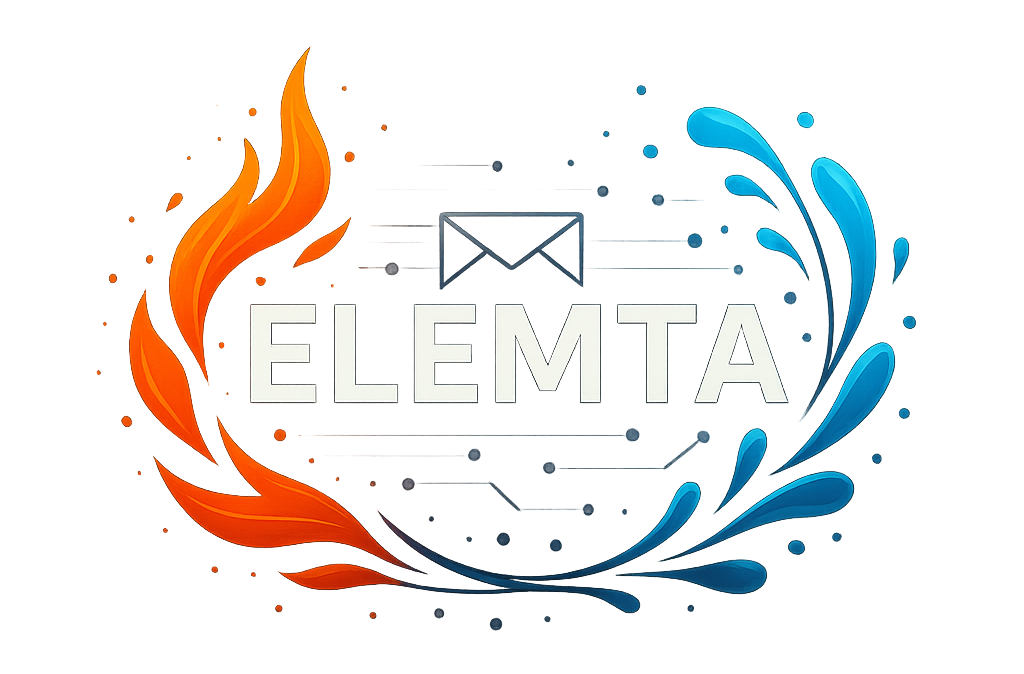
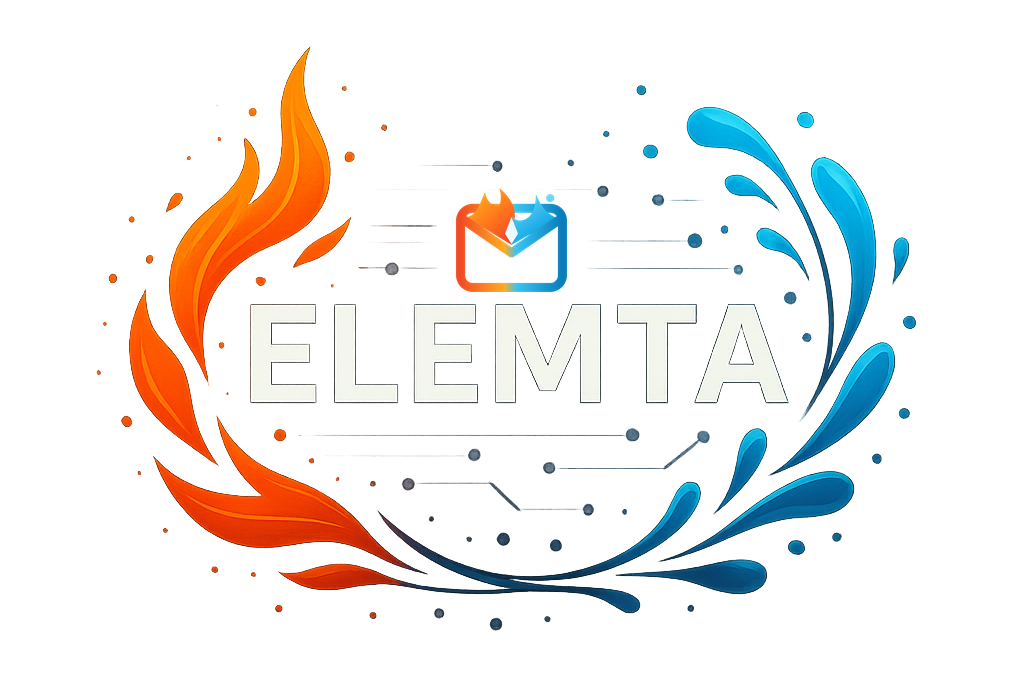
admin: same fire-and-water mark as the webmail
The webmail moved to the new mark in #245: fire and water rise from either
side of an open envelope and meet in the flap. The console still drew the
old one (a white envelope with a fire and a water stroke beside it), so
the two products no longer looked like one. This brings the console in
line.

- Sidebar: the same SVG as the webmail's top bar, at 32x32 (the old slot
  was 36x29). The envelope is open, so the sidebar shows through and the
  .envelope-fill rule that followed --bg-primary is gone. Gradient ids
  are prefixed logo- because inline SVG ids share the page. shell.css's
  version string is bumped because /static/ is cached by version.
- Favicon: the console had none. The sign-in page needs it before there
  is a session and /static/ requires one, so /favicon.svg is served
  publicly from web/favicon.svg, like /login.css and /login.js, and the
  existing public-asset test now covers it.
- Sign-in artwork (images/elemta.png, served as /logo.png, and its copy
  in web/static): the thin line envelope is replaced by the mark, as in
  the webmail's artwork; the fire, water and lettering are untouched and
  the image stays transparent. The same file is the README's logo, so the
  repository page matches too.

The collapsed sidebar and the phone top bar never showed the logo and
still don't.

Changed region(s): [[0.4062, 0.2804, 0.5938, 0.4362]]

diff --git a/web/static/index.html b/web/static/index.html
@@ -5,8 +5,9 @@
     <meta charset="UTF-8">
     <meta name="viewport" content="width=device-width, initial-scale=1.0">
     <title>Elemta Mail Server</title>
+    <link rel="icon" href="/favicon.svg" type="image/svg+xml">
     <link rel="stylesheet" href="/static/styles.css?v=20261122-dashboard">
-    <link rel="stylesheet" href="/static/shell.css?v=20261122-dashboard">
+    <link rel="stylesheet" href="/static/shell.css?v=20261125-icon">
     <link rel="stylesheet" href="/static/mail-admin.css?v=20261122-refresh">
 </head>
 
@@ -16,54 +17,8 @@
         <aside class="sidebar" id="sidebar">
             <div class="sidebar-header">
                 <div class="logo">
-                    <svg class="logo-icon" viewBox="0 0 40 32" fill="none" xmlns="http://www.w3.org/2000/svg">
-                        <!-- Main Envelope -->
-                        <rect x="6" y="6" width="28" height="20" rx="2" class="envelope-fill" stroke="url(#borderGrad)"
-                            stroke-width="2" />
-
-                        <!-- Envelope flap with fire/water gradient -->
-                        <path d="M6 8 L20 18 L34 8" stroke="url(#flapGrad)" stroke-width="2" stroke-linecap="round"
-                            stroke-linejoin="round" />
-
-                        <!-- Fire accent (left side) -->
-                        <path d="M4 24 Q2 20 4 16 Q6 12 3 8" stroke="url(#fireGrad)" stroke-width="2.5"
-                            stroke-linecap="round" fill="none" />
-                        <path d="M6 22 Q5 18 7 14" stroke="url(#fireGrad)" stroke-width="1.5" stroke-linecap="round"
-                            fill="none" />
-                        <circle cx="3" cy="6" r="1.2" fill="#fbbf24" />
-
-                        <!-- Water accent (right side) -->
-                        <path d="M36 24 Q38 20 36 16 Q34 12 37 8" stroke="url(#waterGrad)" stroke-width="2.5"
-                            stroke-linecap="round" fill="none" />
-                        <path d="M34 22 Q35 18 33 14" stroke="url(#waterGrad)" stroke-width="1.5" stroke-linecap="round"
-                            fill="none" />
-                        <circle cx="37" cy="6" r="1.2" fill="#38bdf8" />
-
-                        <defs>
-                            <linearGradient id="borderGrad" x1="6" y1="16" x2="34" y2="16"
-                                gradientUnits="userSpaceOnUse">
-                                <stop stop-color="#f97316" />
-                                <stop offset="0.5" stop-color="#64748b" />
-                                <stop offset="1" stop-color="#0ea5e9" />
-                            </linearGradient>
-                            <linearGradient id="flapGrad" x1="6" y1="13" x2="34" y2="13" gradientUnits="userSpaceOnUse">
-                                <stop stop-color="#f97316" />
-                                <stop offset="0.5" stop-color="#94a3b8" />
-                                <stop offset="1" stop-color="#0ea5e9" />
-                            </linearGradient>
-                            <linearGradient id="fireGrad" x1="4" y1="24" x2="4" y2="6" gradientUnits="userSpaceOnUse">
-                                <stop stop-color="#dc2626" />
-                                <stop offset="0.5" stop-color="#f97316" />
-                                <stop offset="1" stop-color="#fbbf24" />
-                            </linearGradient>
-                            <linearGradient id="waterGrad" x1="36" y1="24" x2="36" y2="6"
-                                gradientUnits="userSpaceOnUse">
-                                <stop stop-color="#0369a1" />
-                                <stop offset="0.5" stop-color="#0ea5e9" />
-                                <stop offset="1" stop-color="#38bdf8" />
-                            </linearGradient>
-                        </defs>
-                    </svg>
+                    <!-- Fire and water meet in the envelope flap; the webmail uses the same mark. -->
+                    <svg class="logo-icon" viewBox="0 0 64 64" aria-hidden="true" xmlns="http://www.w3.org/2000/svg"><defs><linearGradient id="logo-rim" x1="7" y1="35" x2="57" y2="35" gradientUnits="userSpaceOnUse"><stop stop-color="#F14B24"/><stop offset=".43" stop-color="#FFAB24"/><stop offset=".55" stop-color="#38C4F1"/><stop offset="1" stop-color="#087DBA"/></linearGradient><linearGradient id="logo-fire" x1="10" y1="12" x2="32" y2="37" gradientUnits="userSpaceOnUse"><stop stop-color="#FFB21E"/><stop offset=".55" stop-color="#FF6E1D"/><stop offset="1" stop-color="#EB3B2C"/></linearGradient><linearGradient id="logo-water" x1="32" y1="14" x2="54" y2="43" gradientUnits="userSpaceOnUse"><stop stop-color="#67D7FA"/><stop offset=".54" stop-color="#14A7E4"/><stop offset="1" stop-color="#086FAD"/></linearGradient></defs><g stroke-linecap="round" stroke-linejoin="round"><rect x="7" y="17" width="50" height="39" rx="6" fill="none" stroke="url(#logo-rim)" stroke-width="4.4"/><path d="M9 21c5 1 7-5 10-12 1 6 5 7 7 7 1-3 1-6 0-9 6 5 9 11 7 18l-1 10L9 21Z" fill="url(#logo-fire)"/><path d="M55 22c-6-2-9-7-11-12 0 8-3 13-8 13-2 0-3-1-4-3 2 5 1 10 0 15l23-13Z" fill="url(#logo-water)"/><circle cx="51" cy="12" r="2" fill="#67D7FA"/><path d="m9 23 23 16 23-16" fill="none" stroke="url(#logo-rim)" stroke-width="4.5"/><path d="m28.8 29.5 3.2-8.2 3.2 8.2-3.2 5.1Z" fill="#EAF9FF"/></g></svg>
                     <span>Elemta</span>
                 </div>
                 <button class="icon-btn sidebar-toggle" id="sidebar-toggle" aria-label="Collapse or expand the menu" aria-expanded="true">

diff --git a/web/static/shell.css b/web/static/shell.css
@@ -14,8 +14,7 @@
 }
 .sidebar-header { height: var(--header-height); flex: none; display: flex; align-items: center; justify-content: space-between; padding: 0 0.75rem 0 1rem; }
 .logo { display: flex; align-items: center; gap: 0.65rem; min-width: 0; font-size: 1.15rem; font-weight: 700; letter-spacing: -0.01em; color: var(--text-primary); }
-.logo-icon { width: 36px; height: 29px; flex: none; }
-.logo-icon .envelope-fill { fill: var(--bg-primary); }
+.logo-icon { width: 32px; height: 32px; flex: none; }
 .icon-btn {
     width: 36px; height: 36px; flex: none;
     display: inline-flex; align-items: center; justify-content: center;

diff --git a/web/login.html b/web/login.html
@@ -4,6 +4,7 @@
     <meta charset="UTF-8">
     <meta name="viewport" content="width=device-width, initial-scale=1.0">
     <title>Login - Elemta MTA</title>
+    <link rel="icon" href="/favicon.svg" type="image/svg+xml">
     <link rel="stylesheet" href="/login.css?v=20261122-csp">
 </head>
 <body>

diff --git a/internal/api/server.go b/internal/api/server.go
@@ -681,6 +681,8 @@ func (s *Server) Start() error {
 	// console's CSP refuses inline ones, and /static/ needs a session.
 	r.HandleFunc("/login.js", serveLoginAsset("web/login.js")).Methods("GET")
 	r.HandleFunc("/login.css", serveLoginAsset("web/login.css")).Methods("GET")
+	// Both the sign-in page and the console link it, so it is public too.
+	r.HandleFunc("/favicon.svg", serveLoginAsset("web/favicon.svg")).Methods("GET")
 	// One-click unsubscribe from campaign mail: the recipient has no sign-in,
 	// and the signed token is the authority (unsubscribe.go).
 	r.HandleFunc("/unsubscribe/{token}", s.handleUnsubscribe).Methods("GET", "POST")

diff --git a/internal/api/console_escaping_test.go b/internal/api/console_escaping_test.go
@@ -131,7 +131,7 @@ func TestConsolePagesCarryCSP(t *testing.T) {
 
 	// The sign-in page's script and style are public: the page needs them
 	// before there is a session.
-	for path, kind := range map[string]string{"/login.js": "javascript", "/login.css": "css"} {
+	for path, kind := range map[string]string{"/login.js": "javascript", "/login.css": "css", "/favicon.svg": "svg"} {
 		resp, err := http.Get(base + path)
 		require.NoError(t, err)
 		b, _ := io.ReadAll(resp.Body)
